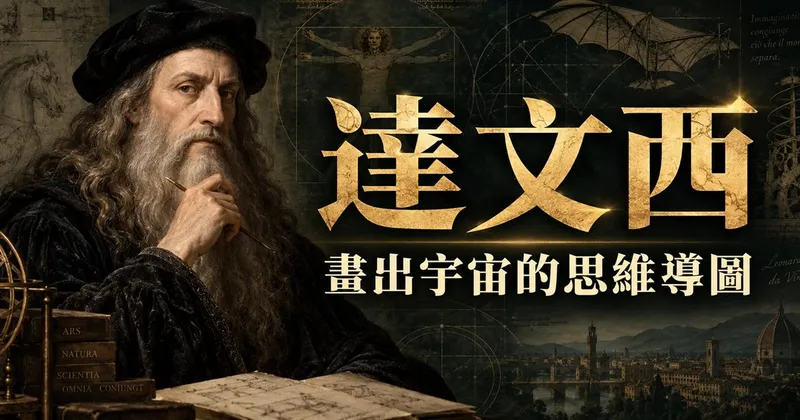
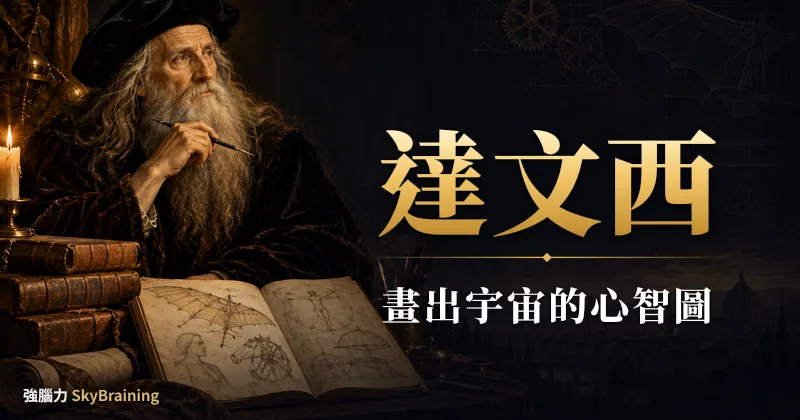
達文西、達爾文封面改台灣用語

diff --git a/articles.html b/articles.html
@@ -487,7 +487,7 @@
   <div class="grid">
 
     <a class="card" href="article-master-davinci.html">
-      <img class="cbanner" src="img-master-banner-davinci-800.jpg" srcset="img-master-banner-davinci-800.jpg 800w, img-master-banner-davinci.jpg 1600w" sizes="(max-width:760px) 100vw, 380px" width="800" height="400" alt="達文西" loading="lazy">
+      <img class="cbanner" src="card-master-davinci.webp" srcset="card-master-davinci.webp 800w, cover-master-davinci.webp 1600w" sizes="(max-width:760px) 100vw, 380px" width="800" height="420" alt="達文西" loading="lazy">
       <div class="cbody">
         <div class="ctitle">達文西的筆記本：他早就在同一頁上「畫著想」</div>
         <div class="cdesc">達文西的手稿把圖和字放在同一頁。那不是塗鴉，是一種思考方式。</div>
@@ -496,7 +496,7 @@
     </a>
 
     <a class="card" href="article-master-darwin.html">
-      <img class="cbanner" src="img-master-banner-darwin-800.jpg" srcset="img-master-banner-darwin-800.jpg 800w, img-master-banner-darwin.jpg 1600w" sizes="(max-width:760px) 100vw, 380px" width="800" height="400" alt="達爾文" loading="lazy">
+      <img class="cbanner" src="card-master-darwin.webp" srcset="card-master-darwin.webp 800w, cover-master-darwin.webp 1600w" sizes="(max-width:760px) 100vw, 380px" width="800" height="420" alt="達爾文" loading="lazy">
       <div class="cbody">
         <div class="ctitle">達爾文寫下「我想」的那一頁：一棵歪歪扭扭的樹</div>
         <div class="cdesc">1837 年那棵潦草的樹，後來變成了演化論。分支，是一種思考方式。</div>

diff --git a/article-master-darwin.html b/article-master-darwin.html
@@ -157,7 +157,7 @@
   <div class="hero">
     <div class="crumb sr-only"><a href="index.html">首頁</a> ／ <a href="articles.html">學習力文章</a> ／ <a href="mindmap.html">心智圖</a></div>
     <h1 class="sr-only">達爾文寫下「我想」的那一頁<br>一棵歪歪扭扭的樹，你也畫得出來</h1>
-    <figure class="banner"><img src="img-master-banner-darwin.jpg" srcset="img-master-banner-darwin-800.jpg 800w, img-master-banner-darwin.jpg 1600w" sizes="(max-width:760px) 100vw, 760px" width="1600" height="800" alt="達爾文：一張圖，發明「進化論」" fetchpriority="high"></figure>
+    <figure class="banner"><img src="cover-master-darwin.webp" srcset="card-master-darwin.webp 800w, cover-master-darwin.webp 1600w" sizes="(max-width:760px) 100vw, 760px" width="1600" height="840" alt="達爾文：一張圖，發明「演化論」" fetchpriority="high"></figure>
     <div class="meta"><span>強腦力 SkyBraining 編輯部</span><span>・</span><span>2026.04.09</span><span>・</span><span>閱讀約 6 分鐘</span></div>
     <p class="lede">你想像一下：1837 年 7 月，28 歲的達爾文在一本小筆記本（後人稱它 Notebook B）的第 36 頁上，畫了一棵樹。線條歪歪扭扭，像你上課隨手塗的那種。他在圖的上方寫了兩個英文字：<strong>「I think」</strong>。那大概是科學史上最輕描淡寫的一次開場白。</p>
   </div>

diff --git a/article-master-davinci.html b/article-master-davinci.html
@@ -157,7 +157,7 @@
   <div class="hero">
     <div class="crumb sr-only"><a href="index.html">首頁</a> ／ <a href="articles.html">學習力文章</a> ／ <a href="mindmap.html">心智圖</a></div>
     <h1 class="sr-only">你看過達文西的筆記本嗎？<br>他早就在同一頁上「畫著想」</h1>
-    <figure class="banner"><img src="img-master-banner-davinci.jpg" srcset="img-master-banner-davinci-800.jpg 800w, img-master-banner-davinci.jpg 1600w" sizes="(max-width:760px) 100vw, 760px" width="1600" height="800" alt="達文西：畫出宇宙的思維導圖" fetchpriority="high"></figure>
+    <figure class="banner"><img src="cover-master-davinci.webp" srcset="card-master-davinci.webp 800w, cover-master-davinci.webp 1600w" sizes="(max-width:760px) 100vw, 760px" width="1600" height="840" alt="達文西：畫出宇宙的心智圖" fetchpriority="high"></figure>
     <div class="meta"><span>強腦力 SkyBraining 編輯部</span><span>・</span><span>2026.03.26</span><span>・</span><span>閱讀約 6 分鐘</span></div>
     <p class="lede">你知道嗎？達文西留下超過 7,000 頁手稿。你隨便翻開一頁，都會看到同一件事：圖在中間，字繞著圖長出來，旁邊還有算式、清單、突然冒出來的另一個念頭。他不是先想好才畫，他是<strong>邊畫邊想</strong>。</p>
   </div>
